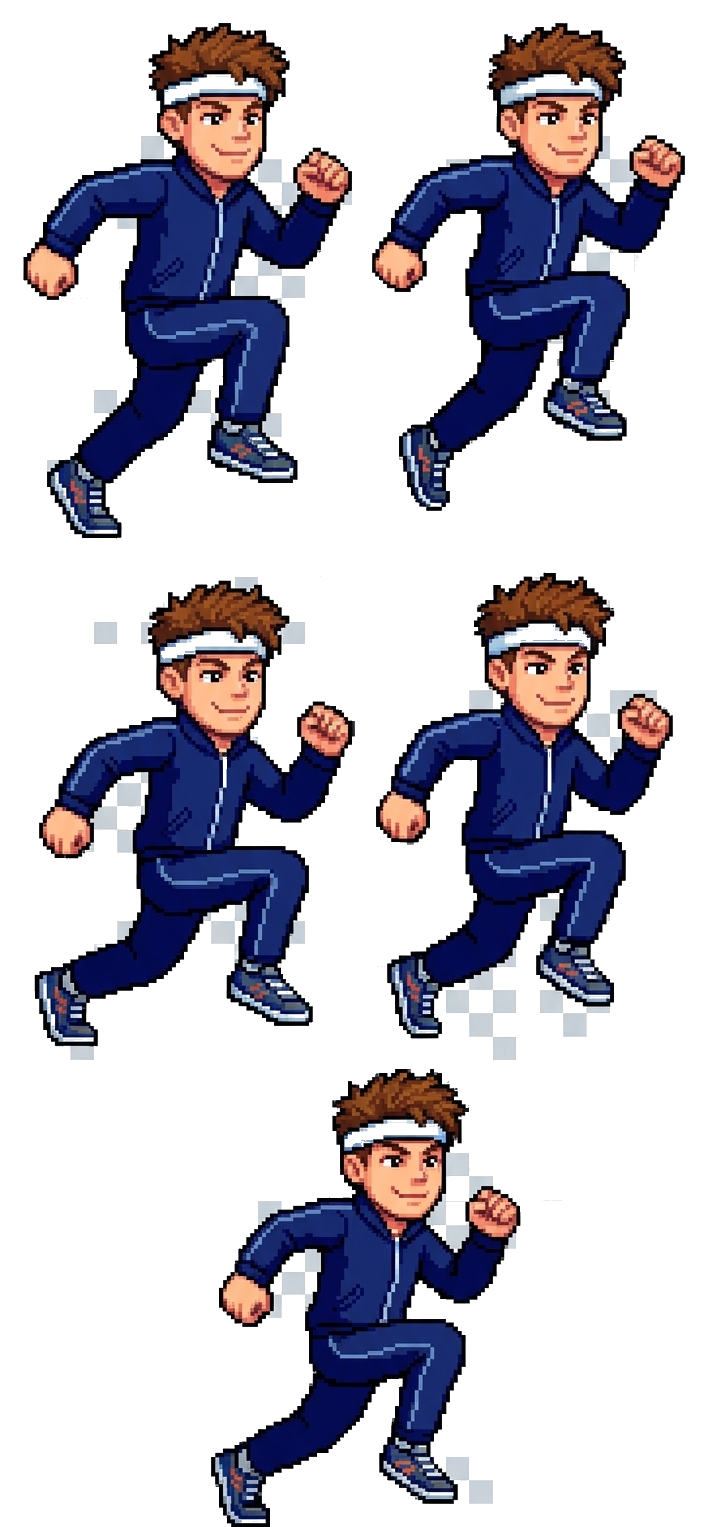
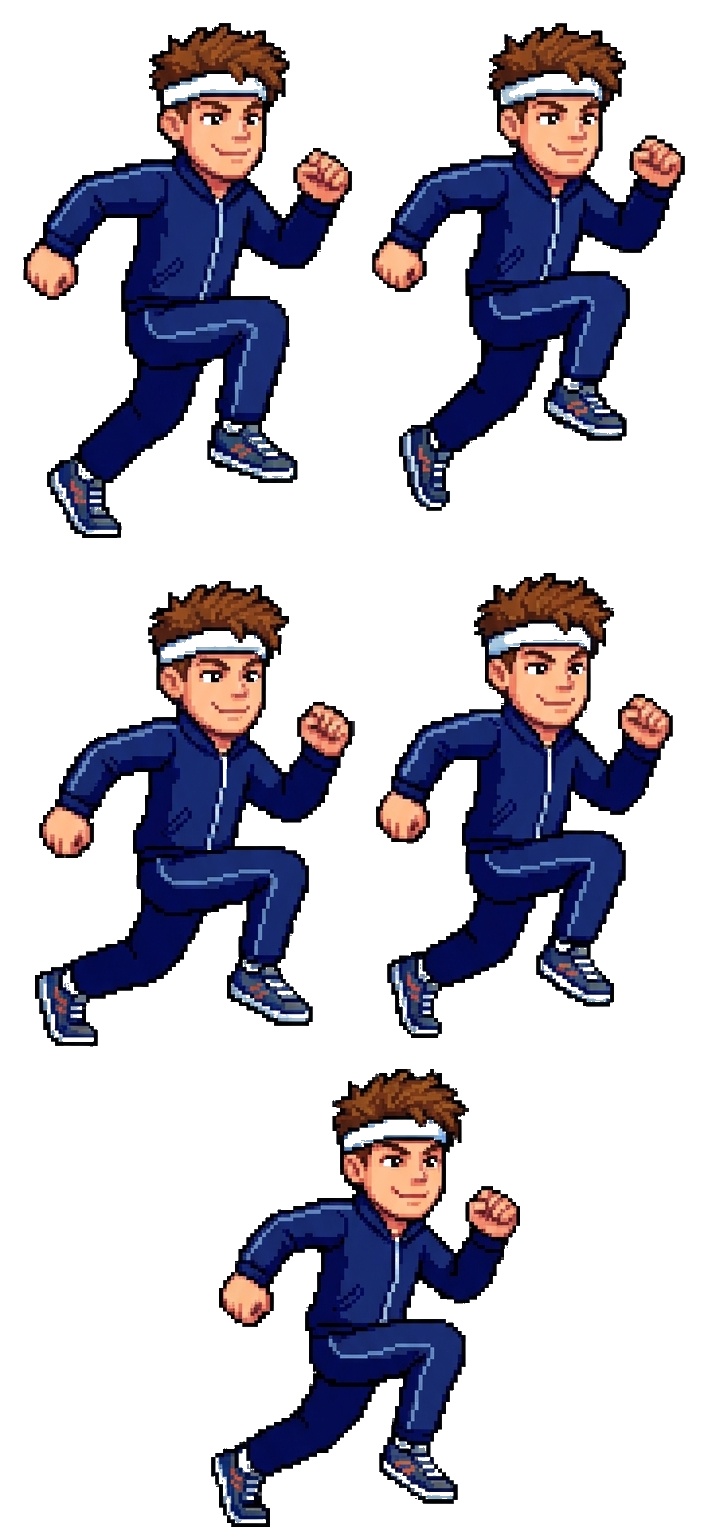
Nuke remaining gray bg pixels from Jack and Joey
Nuclear approach: remove ANY pixel that is light (>140) AND gray
(max-min channel diff < 35) AND not skin tone (R>>G,B).
Jack: 65,654 more pixels removed
Joey: 29,518 more pixels removed
Cache bust v=1773624351

diff --git a/deadwave.html b/deadwave.html
@@ -540,8 +540,8 @@ class GameScene extends Phaser.Scene {
     this.load.spritesheet('sister','sister.png?v=1773607616',{frameWidth:216,frameHeight:288});
     this.load.spritesheet('coach','footballcoach.png?v=1773607616',{frameWidth:306,frameHeight:204});
     this.load.spritesheet('waylon','waylon.png',{frameWidth:352,frameHeight:509});
-    this.load.spritesheet('jack','jack.png?v=1773624173',{frameWidth:352,frameHeight:763});
-    this.load.spritesheet('joey','joey.png?v=1773624173',{frameWidth:352,frameHeight:509});
+    this.load.spritesheet('jack','jack.png?v=1773624351',{frameWidth:352,frameHeight:763});
+    this.load.spritesheet('joey','joey.png?v=1773624351',{frameWidth:352,frameHeight:509});
     this.load.spritesheet('braden','braden.png',{frameWidth:704,frameHeight:381});
     this.load.image('gem','shard.png?v=1773607616');
     this.load.image('bullet','bullet.png?v=1773607616');
